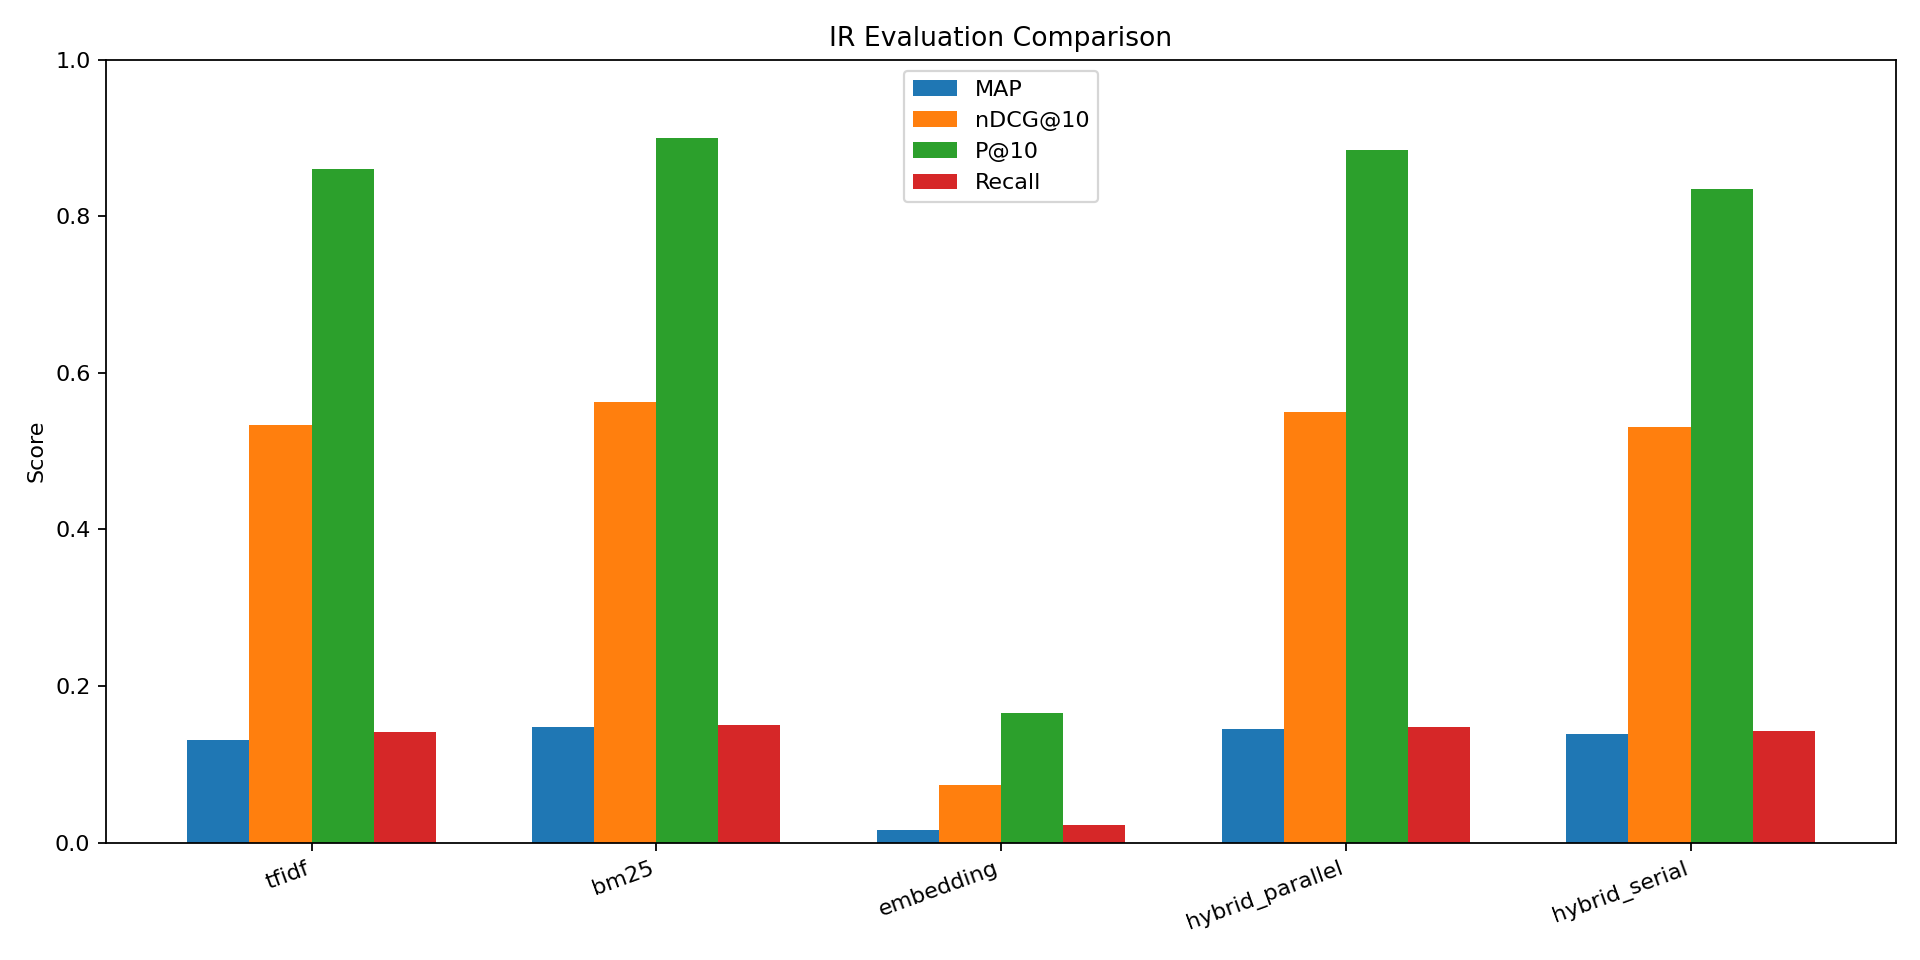
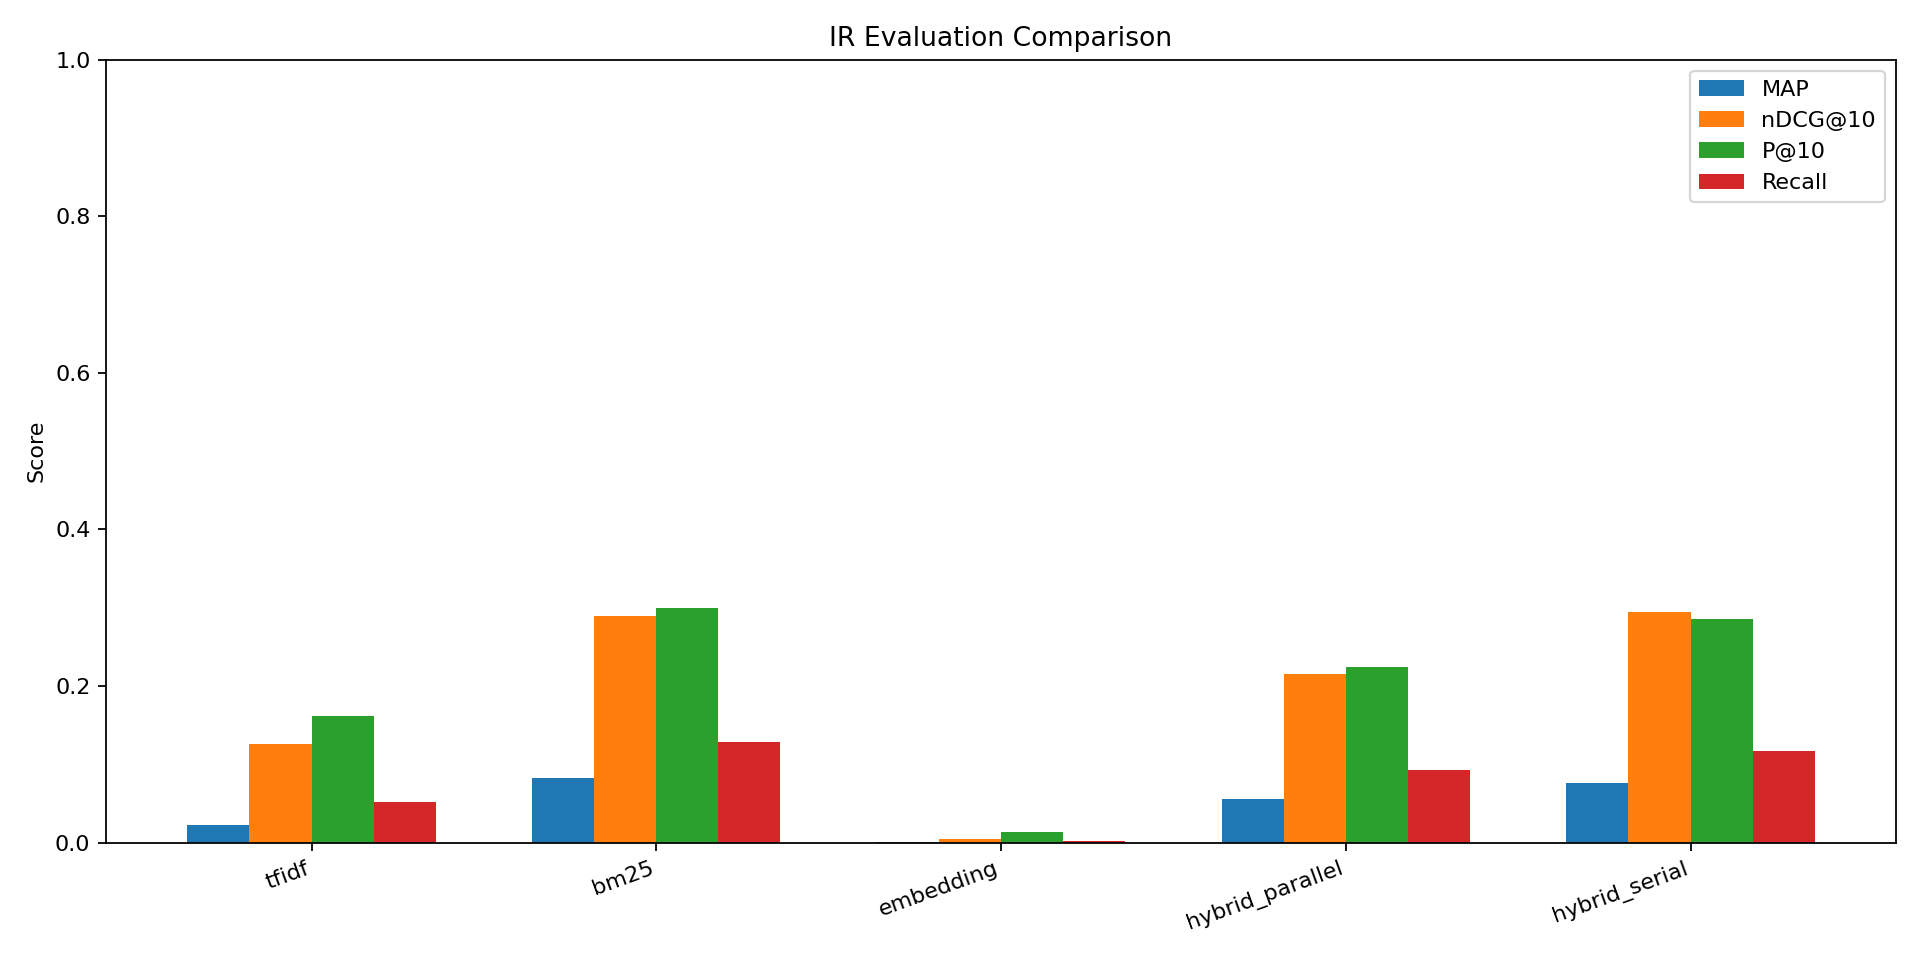
Update reports with latest ClinicalTrials results

diff --git a/reports/report_ar.md b/reports/report_ar.md
@@ -26,7 +26,7 @@
 
 تم التدريب وبناء الفهارس على Google Colab، ثم تم حفظ الملفات الناتجة داخل مجلد `artifacts` ونقلها إلى المشروع المحلي. وقت العرض لا يتم تدريب جديد، بل يقرأ النظام الملفات الجاهزة مثل `search_index.joblib` و `documents.sqlite`.
 
-تم استخدام Dataset كاملة بدون أخذ أول N وثيقة فقط. هذا مهم لأن أخذ جزء من Dataset ضخمة مثل MS MARCO قد لا يكون مقبولاً حسب ملاحظات المعيدة.
+تم استخدام Dataset كاملة بدون أخذ أول N وثيقة فقط. هذا مهم لأن ملاحظات المعيدة أكدت ضرورة اختيار Dataset قابلة للمعالجة كاملة بدلاً من أخذ عينة من Dataset ضخمة.
 
 ## 3. المعالجة المسبقة
 
@@ -82,7 +82,7 @@
 
 ```mermaid
 flowchart LR
-    A["MS MARCO Files"] --> B["Data Service"]
+    A["ClinicalTrials Dataset"] --> B["Data Service"]
     B --> C["SQLite Store"]
     B --> D["Preprocessing"]
     D --> E["Indexing"]
@@ -136,21 +136,31 @@ flowchart LR
 - Precision@10
 - Recall
 
-نتائج التقييم يتم توليدها بعد تدريب Colab على ClinicalTrials وتخزينها في `artifacts/evaluation_metrics.csv`. الجدول التالي يتم تحديثه حسب آخر تدريب:
+نتائج التقييم تم توليدها بعد تدريب Colab على ClinicalTrials وتخزينها في `artifacts/evaluation_metrics.csv`. الجدول التالي يعرض آخر نتائج فعلية بعد التدريب الكامل على 241,006 وثيقة:
 
 | Method | MAP | nDCG@10 | Precision@10 | Recall |
 |---|---:|---:|---:|---:|
-| TF-IDF | يتم توليده | يتم توليده | يتم توليده | يتم توليده |
-| BM25 | يتم توليده | يتم توليده | يتم توليده | يتم توليده |
-| Embedding | يتم توليده | يتم توليده | يتم توليده | يتم توليده |
-| Hybrid Parallel | يتم توليده | يتم توليده | يتم توليده | يتم توليده |
-| Hybrid Serial | يتم توليده | يتم توليده | يتم توليده | يتم توليده |
+| TF-IDF | 0.0230 | 0.1259 | 0.1621 | 0.0523 |
+| BM25 | 0.0823 | 0.2892 | 0.3000 | 0.1284 |
+| Embedding | 0.0005 | 0.0045 | 0.0138 | 0.0023 |
+| Hybrid Parallel | 0.0560 | 0.2148 | 0.2241 | 0.0934 |
+| Hybrid Serial | 0.0761 | 0.2948 | 0.2862 | 0.1168 |
 
-بعد إعادة التدريب على ClinicalTrials يتم اختيار أفضل نموذج حسب النتائج الفعلية. غالباً يكون BM25 أو Hybrid مناسبين لأن الاستعلامات الطبية تعتمد على مصطلحات محددة مثل disease وgene وdemographic.
+حسب النتائج الفعلية، حقق BM25 أفضل MAP وPrecision@10 وRecall، بينما حقق Hybrid Serial أفضل nDCG@10. لذلك نستخدم BM25 وHybrid Serial/Parallel كطرق قوية في العرض، مع إبقاء BERT rerank كخيار دلالي إضافي فوق BM25.
 
-تم أيضاً توليد تقييم إضافي بعد تفعيل Query Refinement في:
+تم أيضاً توليد تقييم إضافي بعد تفعيل Query Refinement في `artifacts/evaluation_metrics_refined.csv`:
 
-- `artifacts/evaluation_metrics_refined.csv`
+| Method | MAP | nDCG@10 | Precision@10 | Recall |
+|---|---:|---:|---:|---:|
+| TF-IDF + Refinement | 0.0250 | 0.1350 | 0.1724 | 0.0555 |
+| BM25 + Refinement | 0.0747 | 0.2742 | 0.3034 | 0.1187 |
+| Embedding + Refinement | 0.0006 | 0.0037 | 0.0103 | 0.0023 |
+| Hybrid Parallel + Refinement | 0.0544 | 0.2177 | 0.2207 | 0.0800 |
+| Hybrid Serial + Refinement | 0.0693 | 0.2786 | 0.2793 | 0.1080 |
+
+كما تم توليد الرسوم البيانية في:
+
+- `reports/figures/evaluation_metrics.png`
 - `reports/figures/evaluation_metrics_refined.png`
 
 بالنسبة إلى RAG، فهو لا يغيّر qrels مباشرة لأنه طبقة إجابة فوق الاسترجاع، لذلك تم تقييم نماذج الاسترجاع الأساسية رقمياً، وتم تقييم RAG عملياً من خلال الواجهة وعرض المصادر.
@@ -205,7 +215,7 @@ flowchart LR
 
 ```powershell
 cd "C:\Users\Lenovo\Desktop\ir dociment\ir_project"
-.\run_app.ps1
+.\run_app.cmd
 ```
 
 ثم نفتح:
@@ -226,9 +236,10 @@ python scripts\evaluate.py --dataset clinicaltrials/2017/trec-pm-2017 --max-quer
 
 تم تجهيز المشروع للرفع على GitHub مع تجاهل الملفات الضخمة مثل:
 
-- `data/raw/msmarco/collection.tsv`
+- `data/raw/`
 - `artifacts/search_index.joblib`
 - `artifacts/documents.sqlite`
+- `artifacts/bert_model_cache`
 - `.codex_deps`
 
 الـ README يشرح طريقة تنزيل Dataset وتوليد الملفات الكبيرة محلياً أو على Colab.

diff --git a/README.md b/README.md
@@ -85,7 +85,7 @@ python scripts\search.py "lung cancer EGFR adult" --method bm25 --top-k 10
 Run UI:
 
 ```powershell
-.\run_app.ps1
+.\run_app.cmd
 ```
 
 Optional BERT reranking:
@@ -101,7 +101,17 @@ BERT reranking does not rebuild `search_index.joblib` or `documents.sqlite`. BM2
 
 The latest results are saved in `artifacts/evaluation_metrics.csv`, and the chart is saved in `reports/figures/evaluation_metrics.png`.
 
-Best current baseline: BM25.
+Latest full ClinicalTrials results:
+
+| Method | MAP | nDCG@10 | Precision@10 | Recall |
+|---|---:|---:|---:|---:|
+| TF-IDF | 0.0230 | 0.1259 | 0.1621 | 0.0523 |
+| BM25 | 0.0823 | 0.2892 | 0.3000 | 0.1284 |
+| Embedding | 0.0005 | 0.0045 | 0.0138 | 0.0023 |
+| Hybrid Parallel | 0.0560 | 0.2148 | 0.2241 | 0.0934 |
+| Hybrid Serial | 0.0761 | 0.2948 | 0.2862 | 0.1168 |
+
+Best current baseline by MAP: BM25.
 
 Additional refined-query evaluation:
 
